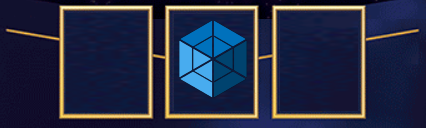
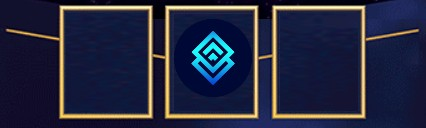
a

diff --git a/scratch.html b/scratch.html
@@ -167,12 +167,12 @@ async function displayTicket(n) {
       select('#scratch-content').classList.add('visible');
 
       if (n[0] == 2) {
-        select('#pic1').src = `images/logos/web3.png`;
+        select('#pic1').src = `images/logos/TWEP/TWEP.png`;
       } else {
         select('#pic1').src = `images/logos/pic_${n[0]}.png`;
       }
       if (n[1] == 2) {
-        select('#pic2').src = `images/logos/web3.png`;
+        select('#pic2').src = `images/logos/TWEP/TWEP.png`;
       } else {
         select('#pic2').src = `images/logos/pic_${n[1]}.png`;
       }
